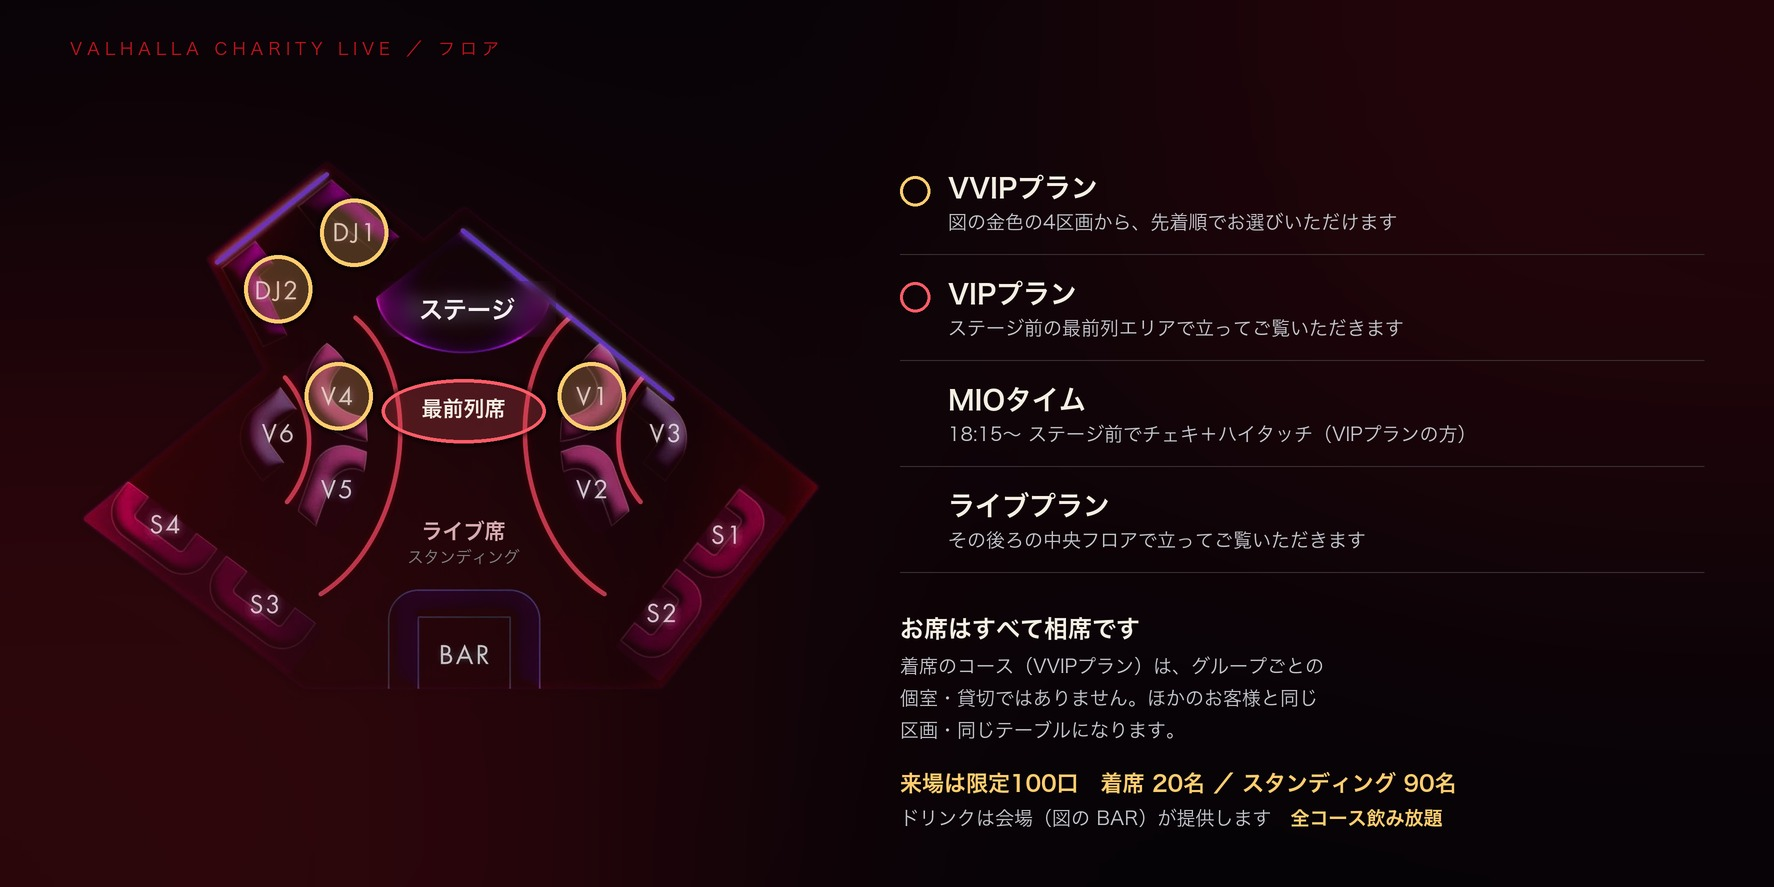
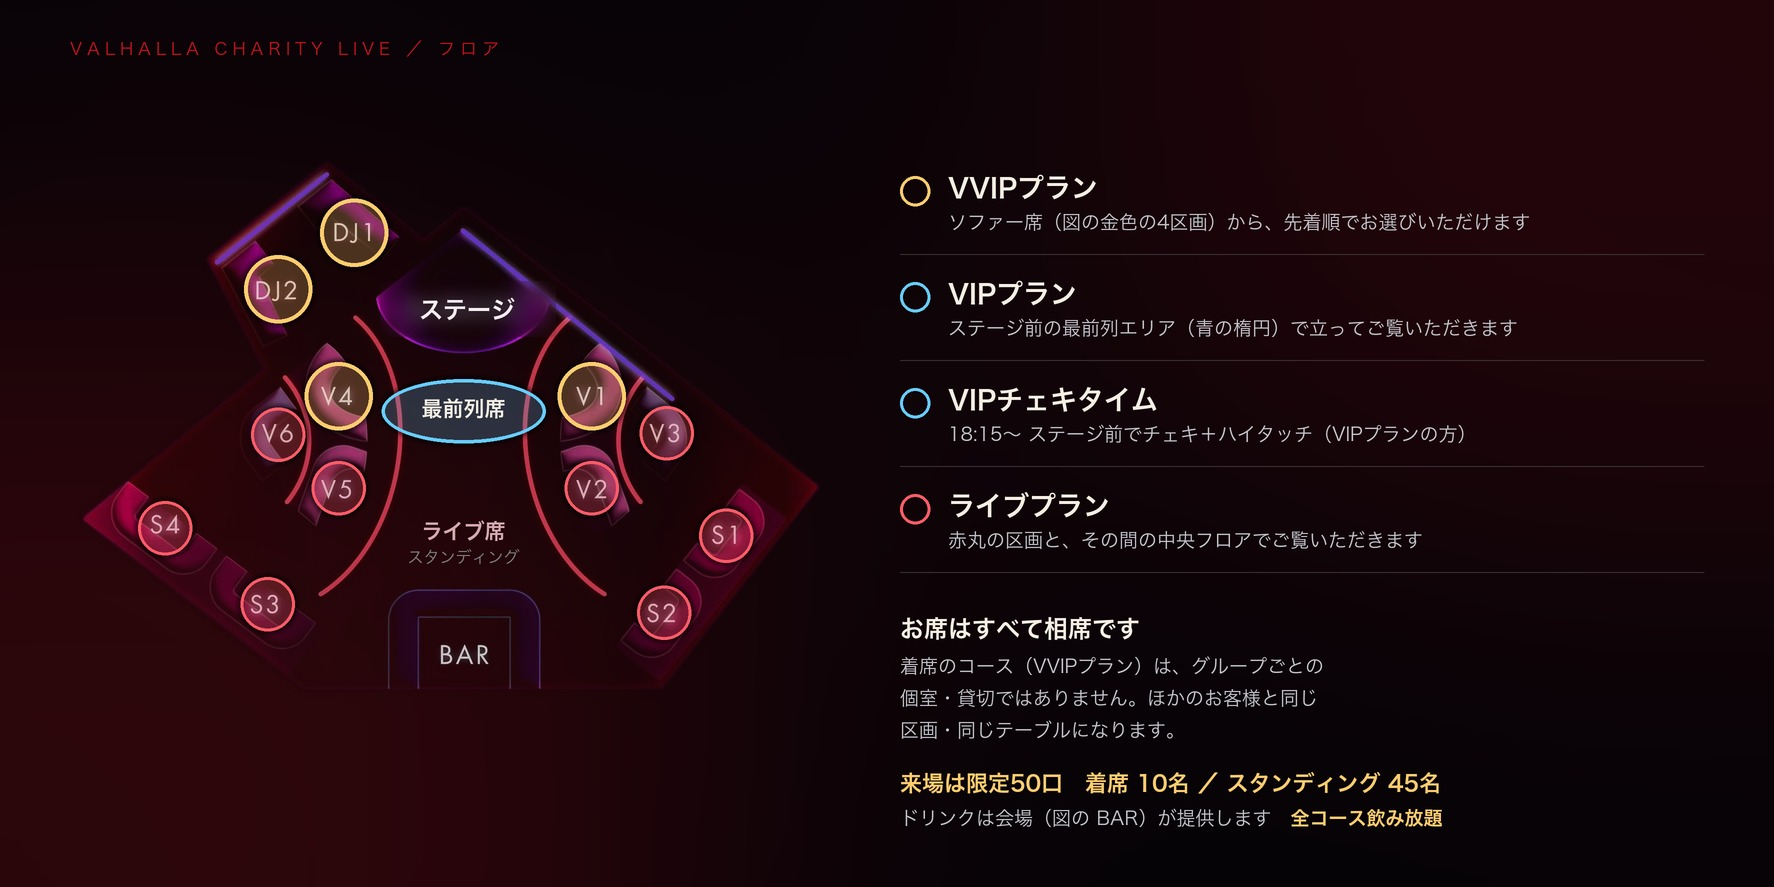
charity: fix what the review caught, and catch the source up
The repo had drifted behind the published preview — fifty slots, the
330,000 tier, the venue left unnamed — so sync that first, then the
review's own list: 10/12 is a Monday, MIO is 会長 in both places, the
age limit is stated where people read the overview, and MIO's quote
loses the sentence it was repeating from two chapters later.

diff --git a/assets/charity/create_floor_banner.py b/assets/charity/create_floor_banner.py
@@ -46,6 +46,8 @@ SSEAT = ("V2", "V3", "V5", "V6", "S1", "S2", "S3", "S4")
 GOLD = (255, 205, 112)
 BLUE = (104, 205, 255)
 FRONT_RED = (255, 92, 104)
+SEAT_RED  = (255, 92, 104)
+FRONT_BLUE = (104, 205, 255)
 
 
 def plan_layer(size: int) -> tuple[Image.Image, float, tuple[int, int]]:
@@ -135,7 +137,8 @@ def build(out: Path) -> None:
     # 区画に印を打つ。VVIP は金、VIP席は青
     for name in VVIP:
         zone_mark(img, at(name), 34, GOLD, 3.8)
-    # V2・V3・V5・V6・S1〜S4 は今回は使用しないので、印は打たない
+    for name in SSEAT:
+        zone_mark(img, at(name), 27, SEAT_RED, 3.2)
     d = ImageDraw.Draw(img)
 
     # ステージのすぐ手前が最前列。丸ではなく楕円で、前方だけを囲う
@@ -147,9 +150,9 @@ def build(out: Path) -> None:
                fill=(0, 0, 0, 150))
     front = front.filter(ImageFilter.GaussianBlur(round(2.2 * SCALE)))
     fd = ImageDraw.Draw(front)
-    fd.ellipse(sbox((fx - rx, fy - ry, fx + rx, fy + ry)), fill=FRONT_RED + (56,))
+    fd.ellipse(sbox((fx - rx, fy - ry, fx + rx, fy + ry)), fill=FRONT_BLUE + (56,))
     fd.ellipse(sbox((fx - rx, fy - ry, fx + rx, fy + ry)),
-               outline=FRONT_RED + (255,), width=round(3.4 * SCALE))
+               outline=FRONT_BLUE + (255,), width=round(3.4 * SCALE))
     img.alpha_composite(front)
     d = ImageDraw.Draw(img)
     centered(d, fx, fy - 13, "最前列席", face(SANS_B, 21), CREAM)
@@ -163,10 +166,10 @@ def build(out: Path) -> None:
     x = 900
     y = 176
     rows = [
-        (GOLD, "VVIPプラン", "図の金色の4区画から、先着順でお選びいただけます"),
-        (FRONT_RED, "VIPプラン", "ステージ前の最前列エリアで立ってご覧いただきます"),
-        (None, "MIOタイム", "18:15〜 ステージ前でチェキ＋ハイタッチ（VIPプランの方）"),
-        (None, "ライブプラン", "その後ろの中央フロアで立ってご覧いただきます"),
+        (GOLD, "VVIPプラン", "ソファー席（図の金色の4区画）から、先着順でお選びいただけます"),
+        (FRONT_BLUE, "VIPプラン", "ステージ前の最前列エリア（青の楕円）で立ってご覧いただきます"),
+        (FRONT_BLUE, "VIPチェキタイム", "18:15〜 ステージ前でチェキ＋ハイタッチ（VIPプランの方）"),
+        (SEAT_RED, "ライブプラン", "赤丸の区画と、その間の中央フロアでご覧いただきます"),
     ]
     for color, title, sub in rows:
         if color:
@@ -185,7 +188,7 @@ def build(out: Path) -> None:
         d.text(spos((x, y + 40 + i * 32)), line, font=face(SANS, 19), fill=SILVER)
 
     y += 156
-    d.text(spos((x, y)), "来場は限定100口　着席 20名 ／ スタンディング 90名", font=face(SANS_B, 22), fill=GOLD)
+    d.text(spos((x, y)), "来場は限定50口　着席 10名 ／ スタンディング 45名", font=face(SANS_B, 22), fill=GOLD)
     lead, lead_f = "ドリンクは会場（図の BAR）が提供します　", face(SANS, 19)
     d.text(spos((x, y + 36)), lead, font=lead_f, fill=SILVER)
     d.text(spos((x + d.textlength(lead, font=lead_f) / SCALE, y + 36)),

diff --git a/tools/build-page-preview.py b/tools/build-page-preview.py
@@ -22,7 +22,7 @@ from PIL import Image
 
 ROOT = Path(__file__).resolve().parent.parent
 SRC = ROOT / "docs" / "campfire-live-page.txt"
-STAMP = "2026年9月18日 18:10 時点"
+STAMP = "2026年9月19日 版"
 IMGDIR = Path.home() / "Desktop" / "VALHALLA_本文にはめる画像"
 THUMBS = Path("/tmp/valhalla_artifact/thumbs")
 OUT = Path("/tmp/valhalla_artifact/campfire-page-preview.html")
